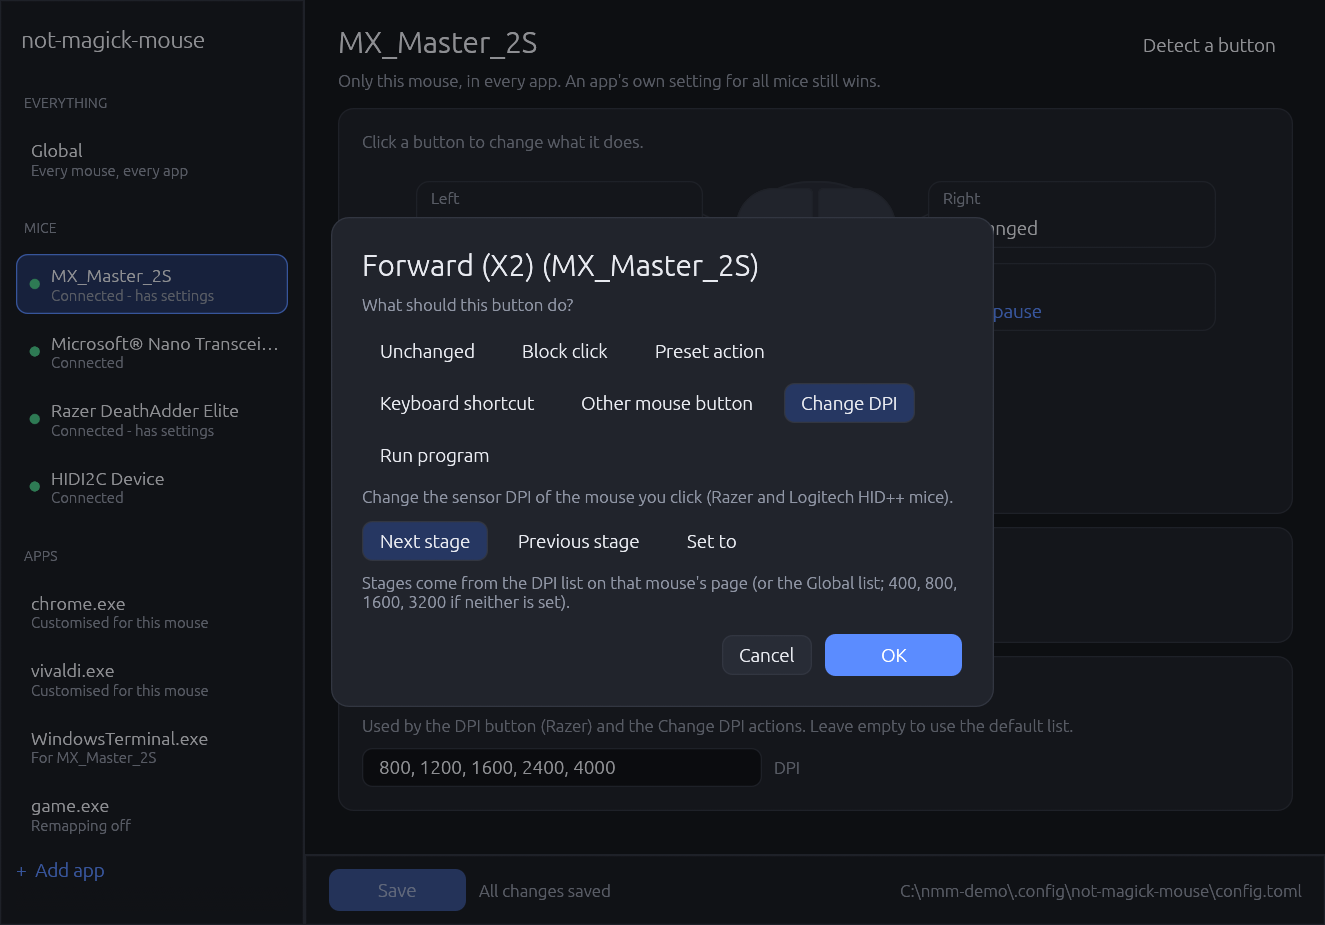
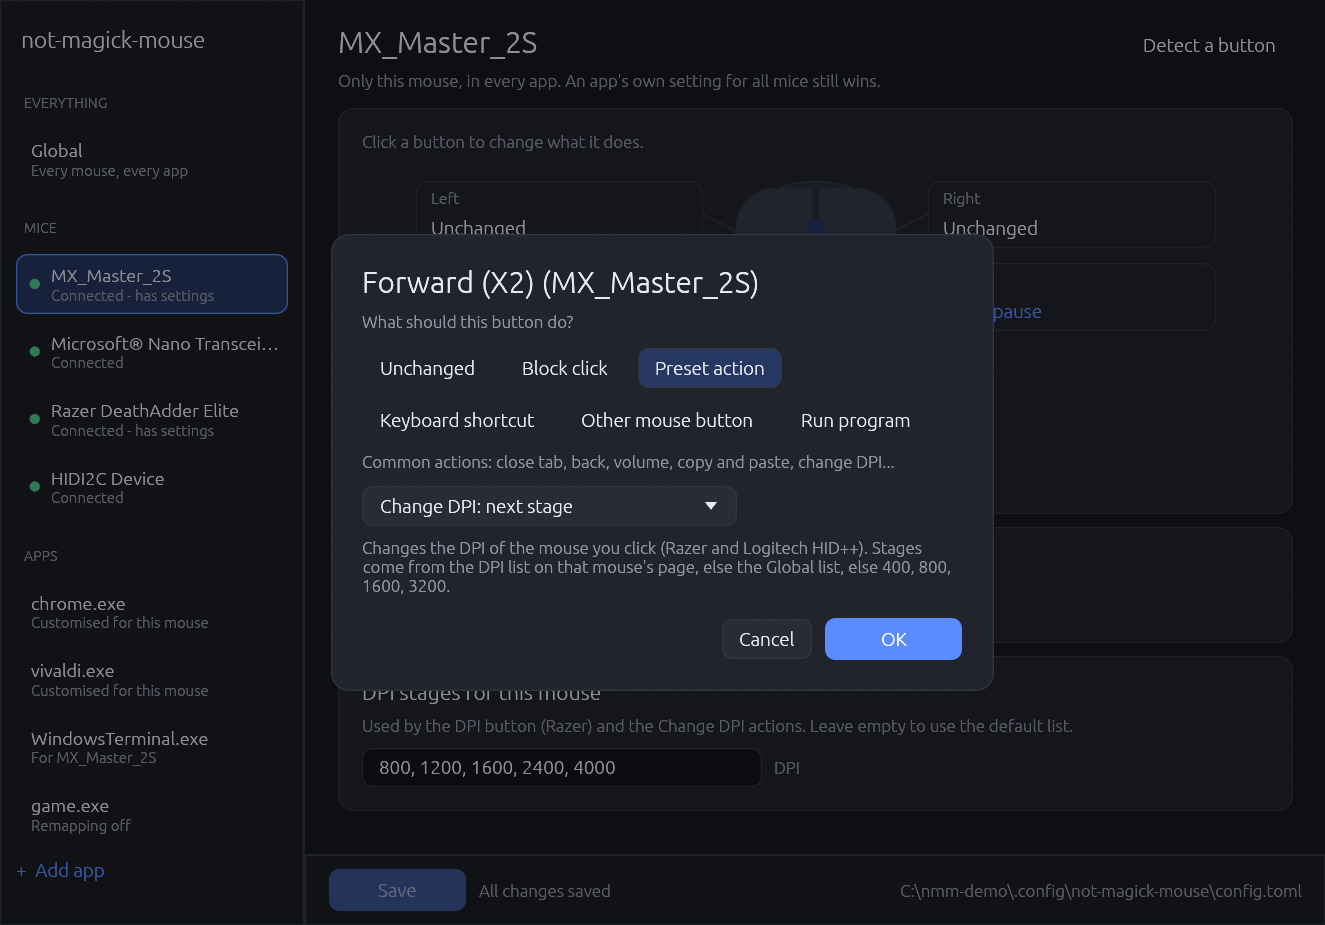
DPI actions under Preset action, consistent dark title bar, CI matrix
- Change DPI entries now live in the Preset action list
- Dark title bar set at window creation (fixed caption colour in all focus states)
- CI: Windows x64/arm64 full build, nmm-core on Linux and macOS

diff --git a/gui/src/main.rs b/gui/src/main.rs
@@ -31,6 +31,7 @@ fn main() -> eframe::Result {
         opts,
         Box::new(move |cc| {
             theme::apply(&cc.egui_ctx);
+            dark_title_bar(cc);
             Ok(Box::new(App::new(path, forced)))
         }),
     )
@@ -38,6 +39,25 @@ fn main() -> eframe::Result {
 
 /// What the pages edit. Nothing selected = Global. A mouse alone = that mouse in
 /// every app. An app alone = every mouse in that app. Both = that mouse in that app.
+/// Give the window a dark title bar from the start, with the same colour whether or not
+/// the window has focus (Windows 11 otherwise shows white, then black, then dark grey).
+fn dark_title_bar(cc: &eframe::CreationContext<'_>) {
+    use raw_window_handle::{HasWindowHandle, RawWindowHandle};
+    use windows::Win32::Foundation::HWND;
+    use windows::Win32::Graphics::Dwm::*;
+    let Ok(h) = cc.window_handle() else { return };
+    let RawWindowHandle::Win32(w) = h.as_raw() else { return };
+    let hwnd = HWND(w.hwnd.get() as *mut _);
+    let colorref = |c: egui::Color32| u32::from(c.r()) | (u32::from(c.g()) << 8) | (u32::from(c.b()) << 16);
+    let set = |attr: DWMWINDOWATTRIBUTE, v: u32| unsafe {
+        let _ = DwmSetWindowAttribute(hwnd, attr, &v as *const u32 as *const _, 4);
+    };
+    set(DWMWA_USE_IMMERSIVE_DARK_MODE, 1);
+    set(DWMWA_CAPTION_COLOR, colorref(SIDEBAR)); // Windows 11 only; ignored elsewhere
+    set(DWMWA_BORDER_COLOR, colorref(BORDER));
+    set(DWMWA_TEXT_COLOR, colorref(TEXT));
+}
+
 #[derive(Clone, PartialEq, Default)]
 struct Scope {
     /// Hardware key of a mouse, e.g. `vid_1532&pid_005c`.
@@ -55,11 +75,10 @@ enum Kind {
     Shortcut,
     Mouse,
     Run,
-    Dpi,
 }
 
 impl Kind {
-    const ALL: [Kind; 7] = [Kind::Passthrough, Kind::Disabled, Kind::Preset, Kind::Shortcut, Kind::Mouse, Kind::Dpi, Kind::Run];
+    const ALL: [Kind; 6] = [Kind::Passthrough, Kind::Disabled, Kind::Preset, Kind::Shortcut, Kind::Mouse, Kind::Run];
     fn label(self) -> &'static str {
         match self {
             Kind::Passthrough => "Unchanged",
@@ -68,18 +87,16 @@ impl Kind {
             Kind::Shortcut => "Keyboard shortcut",
             Kind::Mouse => "Other mouse button",
             Kind::Run => "Run program",
-            Kind::Dpi => "Change DPI",
         }
     }
     fn hint(self) -> &'static str {
         match self {
             Kind::Passthrough => "The button does what it normally does.",
             Kind::Disabled => "The click is swallowed and does nothing.",
-            Kind::Preset => "Common actions: close tab, back, volume, copy and paste...",
+            Kind::Preset => "Common actions: close tab, back, volume, copy and paste, change DPI...",
             Kind::Shortcut => "Press the keys you want this button to send.",
             Kind::Mouse => "Make this button act like a different mouse button.",
             Kind::Run => "Start a program each time the button is pressed.",
-            Kind::Dpi => "Change the sensor DPI of the mouse you click (Razer and Logitech HID++ mice).",
         }
     }
 }
@@ -94,7 +111,8 @@ struct Editor {
     recording: bool,
     mouse: Button,
     run: String,
-    dpi: DpiMode,
+    /// Set when the Preset choice is one of the DPI entries (instead of `preset`).
+    dpi: Option<DpiMode>,
     dpi_value: u32,
 }
 
@@ -116,7 +134,7 @@ impl Editor {
             recording: false,
             mouse: Button::Middle,
             run: String::new(),
-            dpi: DpiMode::Next,
+            dpi: None,
             dpi_value: 1600,
         };
         match current {
@@ -140,12 +158,12 @@ impl Editor {
                 e.run = r.clone();
             }
             Some(Action::Dpi(c)) => {
-                e.kind = Kind::Dpi;
+                e.kind = Kind::Preset;
                 match c {
-                    DpiCmd::Next => e.dpi = DpiMode::Next,
-                    DpiCmd::Prev => e.dpi = DpiMode::Prev,
+                    DpiCmd::Next => e.dpi = Some(DpiMode::Next),
+                    DpiCmd::Prev => e.dpi = Some(DpiMode::Prev),
                     DpiCmd::Set(v) => {
-                        e.dpi = DpiMode::Set;
+                        e.dpi = Some(DpiMode::Set);
                         e.dpi_value = *v;
                     }
                 }
@@ -158,7 +176,12 @@ impl Editor {
         match self.kind {
             Kind::Passthrough => Ok(Action::Passthrough),
             Kind::Disabled => Ok(Action::None),
-            Kind::Preset => Ok(Action::Preset(self.preset)),
+            Kind::Preset => Ok(match self.dpi {
+                None => Action::Preset(self.preset),
+                Some(DpiMode::Next) => Action::Dpi(DpiCmd::Next),
+                Some(DpiMode::Prev) => Action::Dpi(DpiCmd::Prev),
+                Some(DpiMode::Set) => Action::Dpi(DpiCmd::Set(self.dpi_value.clamp(100, 30000))),
+            }),
             Kind::Shortcut => {
                 let c = self.combo.as_ref().ok_or("Record a shortcut first.")?;
                 let mut mods = c.mods.clone();
@@ -168,11 +191,6 @@ impl Editor {
                 Ok(Action::Key(Combo::new(&mods, &c.key)))
             }
             Kind::Mouse => Ok(Action::Mouse(self.mouse)),
-            Kind::Dpi => Ok(Action::Dpi(match self.dpi {
-                DpiMode::Next => DpiCmd::Next,
-                DpiMode::Prev => DpiCmd::Prev,
-                DpiMode::Set => DpiCmd::Set(self.dpi_value.clamp(100, 30000)),
-            })),
             Kind::Run if self.run.trim().is_empty() => Err("Enter a program path.".into()),
             Kind::Run => Ok(Action::Run(self.run.trim().to_string())),
         }
@@ -759,11 +777,36 @@ impl App {
             ui.add_space(2.0);
             match ed.kind {
                 Kind::Preset => {
-                    egui::ComboBox::from_id_salt("preset").width(300.0).selected_text(ed.preset.label()).show_ui(ui, |ui| {
+                    let current = match ed.dpi {
+                        None => ed.preset.label().to_string(),
+                        Some(DpiMode::Next) => "Change DPI: next stage".to_string(),
+                        Some(DpiMode::Prev) => "Change DPI: previous stage".to_string(),
+                        Some(DpiMode::Set) => "Change DPI: set to a value".to_string(),
+                    };
+                    egui::ComboBox::from_id_salt("preset").width(300.0).selected_text(current).show_ui(ui, |ui| {
                         for p in Preset::ALL {
-                            ui.selectable_value(&mut ed.preset, p, p.label());
+                            if ui.selectable_label(ed.dpi.is_none() && ed.preset == p, p.label()).clicked() {
+                                ed.preset = p;
+                                ed.dpi = None;
+                            }
+                        }
+                        ui.separator();
+                        for (mode, label) in [
+                            (DpiMode::Next, "Change DPI: next stage"),
+                            (DpiMode::Prev, "Change DPI: previous stage"),
+                            (DpiMode::Set, "Change DPI: set to a value"),
+                        ] {
+                            if ui.selectable_label(ed.dpi == Some(mode), label).clicked() {
+                                ed.dpi = Some(mode);
+                            }
                         }
                     });
+                    if let Some(mode) = ed.dpi {
+                        if mode == DpiMode::Set {
+                            ui.add(egui::DragValue::new(&mut ed.dpi_value).range(100..=30000).speed(50).suffix(" DPI"));
+                        }
+                        ui.label(muted("Changes the DPI of the mouse you click (Razer and Logitech HID++). Stages come from the DPI list on that mouse's page, else the Global list, else 400, 800, 1600, 3200."));
+                    }
                 }
                 Kind::Shortcut => {
                     ui.horizontal(|ui| {
@@ -792,17 +835,6 @@ impl App {
                             ui.selectable_value(&mut ed.mouse, b, b.label());
                         }
                     });
-                }
-                Kind::Dpi => {
-                    ui.horizontal(|ui| {
-                        ui.selectable_value(&mut ed.dpi, DpiMode::Next, "Next stage");
-                        ui.selectable_value(&mut ed.dpi, DpiMode::Prev, "Previous stage");
-                        ui.selectable_value(&mut ed.dpi, DpiMode::Set, "Set to");
-                        if ed.dpi == DpiMode::Set {
-                            ui.add(egui::DragValue::new(&mut ed.dpi_value).range(100..=30000).speed(50).suffix(" DPI"));
-                        }
-                    });
-                    ui.label(muted("Stages come from the DPI list on that mouse's page (or the Global list; 400, 800, 1600, 3200 if neither is set)."));
                 }
                 Kind::Run => {
                     ui.add(egui::TextEdit::singleline(&mut ed.run).hint_text("C:\\path\\app.exe arguments").desired_width(f32::INFINITY));

diff --git a/README.md b/README.md
@@ -59,7 +59,7 @@ The installer definition is `daemon/wix/main.wxs`.
 
 ### Changing DPI from a button
 
-Choose **Change DPI** in the button editor: *Next stage*, *Previous stage* or *Set to* a value. It acts on the mouse that was clicked, so a button on the MX Master changes the MX Master's DPI. Nothing is assigned by default; you choose the buttons (for example Back and Forward on the MX Master, set on that mouse's page).
+In the button editor choose **Preset action**, then one of the **Change DPI** entries at the bottom of the list: *next stage*, *previous stage* or *set to a value*. It acts on the mouse that was clicked, so a button on the MX Master changes the MX Master's DPI. Nothing is assigned by default; you choose the buttons (for example Back and Forward on the MX Master, set on that mouse's page).
 
 - **Razer** mice: over Razer's HID protocol (as for the DPI button).
 - **Logitech** mice (tested on an MX Master 2S over Bluetooth, range 200-4000 in steps of 50): over HID++ 2.0 "Adjustable DPI". Close Logitech Options+ / G HUB if they fight over the setting. Values are snapped to what the sensor accepts.
@@ -170,7 +170,7 @@ Presets: `close_tab`, `close_tab_mdi`, `close_window`, `browser_back`, `browser_
 
 ## Releasing (automated deployment)
 
-- `.github/workflows/ci.yml` builds and tests on every push to `main` and on pull requests (Windows runner).
+- `.github/workflows/ci.yml` runs on every push to `main` and on pull requests: the full app is built and tested on Windows (x64 on `windows-latest`, which is Windows Server 2025 and shares Windows 11's kernel; arm64 on `windows-11-arm`, non-blocking). The platform-independent `nmm-core` crate is also built and tested on Linux and macOS. The tray daemon, hook, OSD and GUI backends are Windows-only today, so Linux and macOS cannot build the full app yet; the core build there keeps those ports possible.
 - `.github/workflows/release.yml` runs when you push a tag. It checks that the tag matches the crate version, runs the tests, installs WiX and `cargo-wix`, runs `installer/package.ps1`, uploads `dist/*` as a build artifact and attaches the MSI, the portable zip and `SHA256SUMS.txt` to a release.
 
 ```powershell
